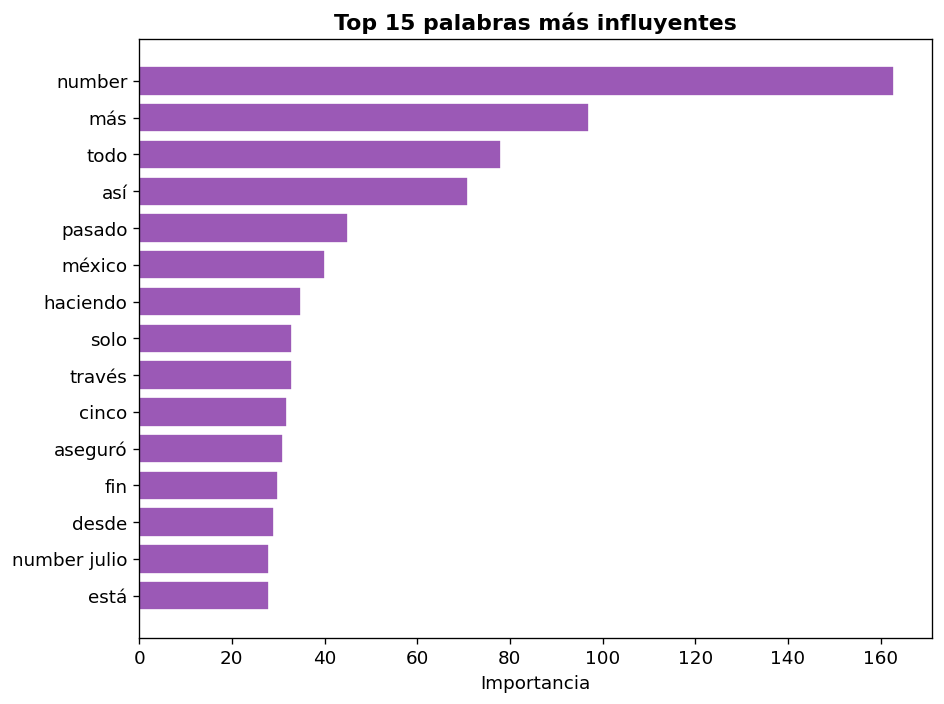
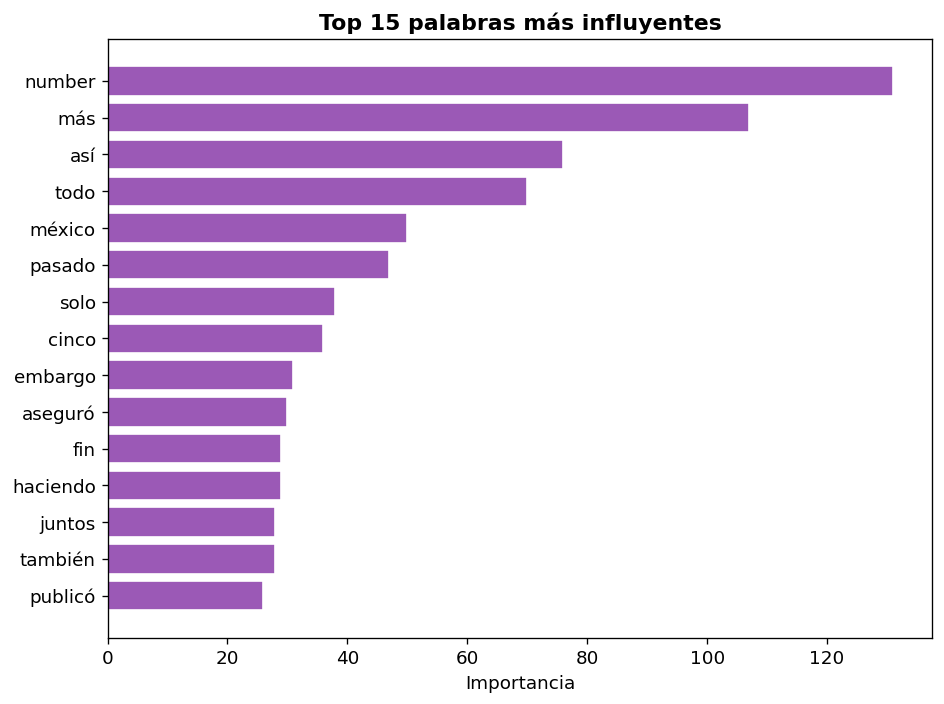
cambio de interfaz y de uso de algoritmo

diff --git a/src/predict.py b/src/predict.py
@@ -1,11 +1,11 @@
 # ============================================
 # src/predict.py — Funciones de predicción
 # ============================================
-# Carga el modelo LightGBM y el vectorizador TF-IDF, y clasifica
-# una noticia (texto) como Verdadera o Falsa.
+# Carga el modelo (Regresión Logística) y el vectorizador TF-IDF, y
+# clasifica una noticia (texto) como Verdadera o Falsa.
 #
-# A diferencia de préstamos, aquí se cargan DOS archivos:
-#   - modelo.pkl      (el clasificador LightGBM)
+# Se cargan DOS archivos:
+#   - modelo.pkl      (el clasificador lineal)
 #   - vectorizer.pkl  (el TF-IDF que convierte texto en números)
 
 import joblib
@@ -46,9 +46,13 @@ def explain_prediction(X, prediction, model, vectorizer, top_n=6):
     Explica POR QUÉ el modelo tomó su decisión, listando las palabras
     de la noticia que más empujaron hacia la clase predicha.
 
-    Usa las contribuciones por característica de LightGBM (pred_contrib),
-    el equivalente a valores SHAP: para cada palabra presente en el texto
-    devuelve cuánto sumó a la predicción.
+    El modelo es una Regresión Logística sobre TF-IDF. En un modelo
+    lineal, la contribución de cada palabra a la decisión es:
+
+        contribución_i = coef_i * tfidf_i
+
+    donde coef_i es el peso aprendido para esa palabra y tfidf_i su valor
+    en este texto. El signo del coeficiente indica la dirección:
         - contribución > 0  -> empuja hacia FALSA (clase 1)
         - contribución < 0  -> empuja hacia VERDADERA (clase 0)
 
@@ -56,7 +60,7 @@ def explain_prediction(X, prediction, model, vectorizer, top_n=6):
     ----------
     X : matriz TF-IDF dispersa del texto (salida de preprocess_input).
     prediction : int, la clase que ganó (1 = Falsa, 0 = Verdadera).
-    model : el clasificador LightGBM ya cargado.
+    model : el clasificador lineal ya cargado (expone .coef_).
     vectorizer : el TF-IDF ya cargado (para mapear índices -> palabras).
     top_n : cuántas palabras influyentes devolver.
 
@@ -65,24 +69,19 @@ def explain_prediction(X, prediction, model, vectorizer, top_n=6):
     list[dict] con {"word": str, "weight": float} ordenada por influencia,
     solo de las palabras que empujaron hacia la clase predicha.
     """
-    # validate_features=False evita el warning de nombres de columnas:
-    # el vectorizador entrega una matriz sin nombres y no los necesitamos.
-    contrib = model.booster_.predict(X, pred_contrib=True, validate_features=False)
-    contrib = np.asarray(contrib.todense() if hasattr(contrib, "todense") else contrib)
-    # La última columna es el valor base (sesgo), no una palabra.
-    contrib = contrib[0][:-1]
-
+    coef = np.asarray(model.coef_).ravel()  # un peso por palabra del vocabulario
     feature_names = vectorizer.get_feature_names_out()
-    present_idx = sorted(set(X.nonzero()[1]))
 
+    # X es disperso (1, n_features); recorremos solo las palabras presentes.
+    Xc = X.tocoo()
     reasons = []
-    for i in present_idx:
-        weight = float(contrib[i])
+    for j, val in zip(Xc.col, Xc.data):
+        weight = float(coef[j] * val)
         # Solo palabras que apoyan la clase ganadora:
         # si es Falsa (1) -> contribuciones positivas; si Verdadera (0) -> negativas.
         supports = weight > 0 if prediction == 1 else weight < 0
-        if supports and abs(weight) > 1e-4:
-            reasons.append({"word": feature_names[i], "weight": abs(weight)})
+        if supports and abs(weight) > 1e-6:
+            reasons.append({"word": feature_names[j], "weight": abs(weight)})
 
     reasons.sort(key=lambda r: -r["weight"])
     return reasons[:top_n]
@@ -96,7 +95,7 @@ def make_prediction(texto, model, vectorizer):
     ----------
     texto : str
         La noticia (titular y/o cuerpo) escrita por el usuario.
-    model : el clasificador LightGBM ya cargado.
+    model : el clasificador lineal ya cargado.
     vectorizer : el TF-IDF ya cargado.
 
     Devuelve

diff --git a/app/app.py b/app/app.py
@@ -3,7 +3,7 @@
 # ============================================
 # Detector de Noticias Falsas (Fake News).
 # El usuario pega una noticia (titular y/o cuerpo) y el modelo
-# LightGBM + TF-IDF la clasifica como FALSA o VERDADERA, mostrando
+# Regresión Logística + TF-IDF la clasifica como FALSA o VERDADERA, mostrando
 # además POR QUÉ: las palabras que más influyeron en la decisión.
 #
 # Interfaz minimalista de dos columnas:
@@ -207,7 +207,7 @@ with col_result:
                     <p class="why__intro">{why_intro}</p>
                     <div class="why__chips">{chips}</div>
                     <p class="why__note">Las palabras con mayor peso según el
-                    modelo (TF-IDF + LightGBM) en esta noticia.</p>
+                    modelo (TF-IDF + Regresión Logística) en esta noticia.</p>
                 </div>
                 """,
                 unsafe_allow_html=True,
@@ -224,18 +224,6 @@ with col_result:
             )
 
 
-# ============================================
-# FOOTER
-# ============================================
-st.markdown(
-    """
-    <div class="app-footer">
-        <p class="app-footer__brand">Detector de Noticias Falsas</p>
-        <p>Inteligencia Artificial — Modelo LightGBM + TF-IDF · Texto en español</p>
-    </div>
-    """,
-    unsafe_allow_html=True,
-)
 
 
 # ============================================

diff --git a/src/preprocessing.py b/src/preprocessing.py
@@ -2,7 +2,7 @@
 # src/preprocessing.py — Preprocesamiento de texto
 # ============================================
 # Limpia las noticias y las convierte a números con TF-IDF
-# para que LightGBM pueda clasificarlas como Falsas o Verdaderas.
+# para que la Regresión Logística pueda clasificarlas como Falsas o Verdaderas.
 #
 # A diferencia del proyecto de préstamos (datos en columnas),
 # aquí el input es TEXTO, así que el paso central es la
@@ -73,19 +73,22 @@ def crear_vectorizador() -> TfidfVectorizer:
     """
     Crea el vectorizador TF-IDF con la configuración del proyecto.
 
-    - max_features=3000: usa las 3000 palabras/combinaciones más útiles.
+    - max_features=30000: vocabulario amplio (las combinaciones más útiles).
     - ngram_range=(1,2): considera palabras sueltas Y pares de palabras
       (ej: "agua milagrosa" como una sola señal).
-    - min_df=2: ignora palabras que aparecen en una sola noticia (ruido).
+    - min_df=3: ignora términos que aparecen en menos de 3 noticias (ruido).
+    - sublinear_tf=True: usa 1+log(tf) en vez de tf crudo; suaviza el peso
+      de palabras muy repetidas y mejora la clasificación de texto.
     - stop_words: quita las palabras vacías en español.
 
     OJO: este vectorizador se entrena (fit) en el notebook y se GUARDA
     como vectorizer.pkl, porque la app lo necesita para procesar texto nuevo.
     """
     return TfidfVectorizer(
-        max_features=3000,
+        max_features=30000,
         ngram_range=(1, 2),
-        min_df=2,
+        min_df=3,
+        sublinear_tf=True,
         stop_words=STOPWORDS_ES,
     )
 